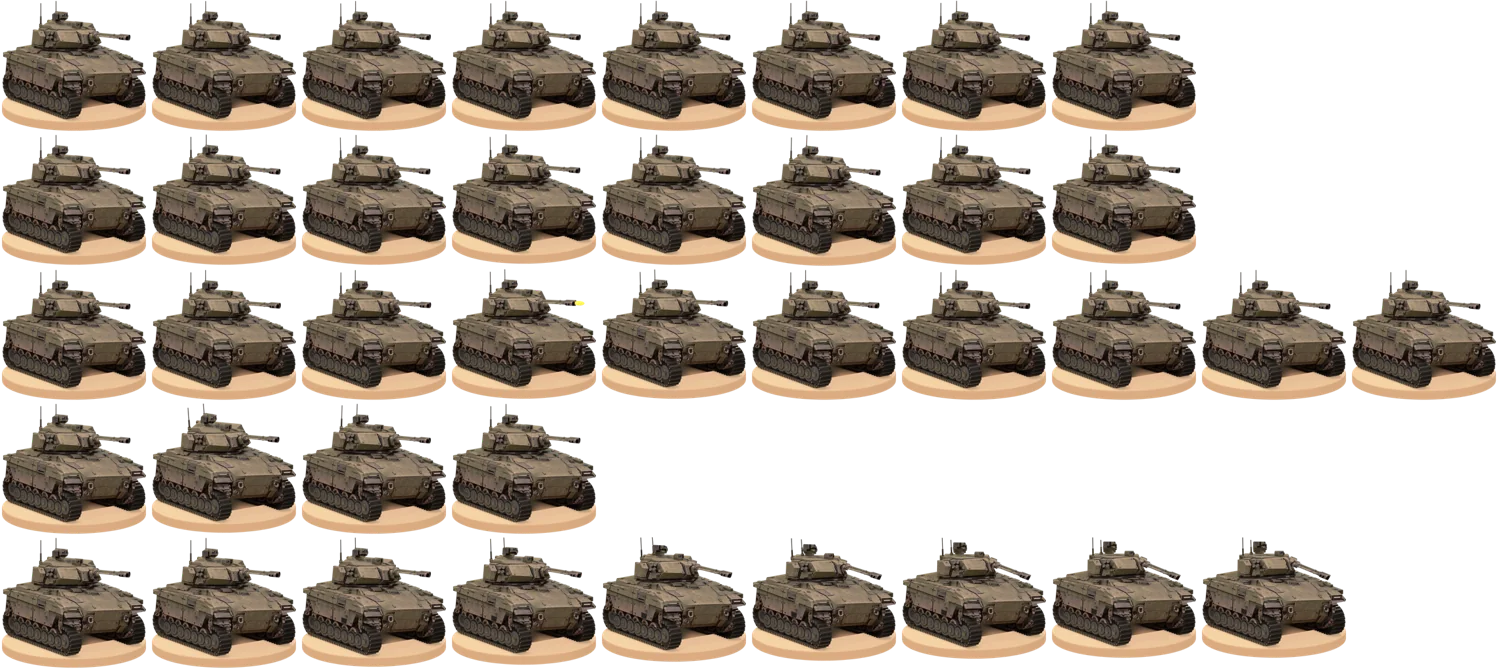
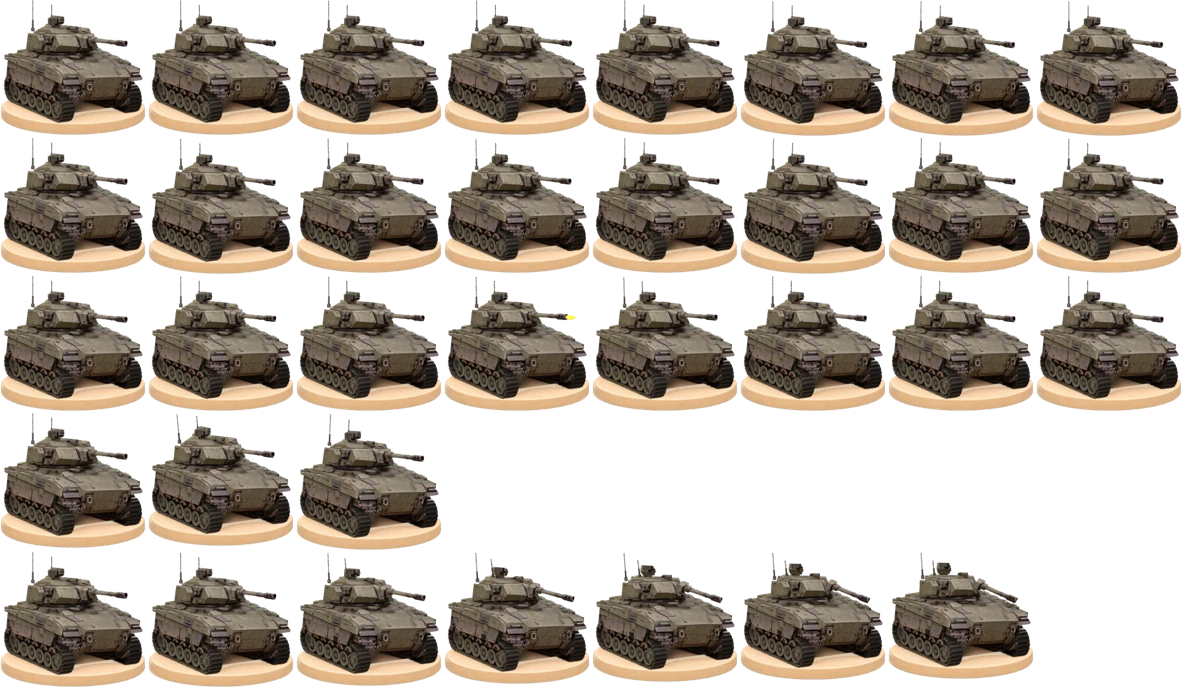
Codex task unit-anim-3d-autonomous-armour: work left uncommitted in the sandbox

diff --git a/tools/art/anim3d/units/autonomous-armour/scene.py b/tools/art/anim3d/units/autonomous-armour/scene.py
@@ -35,11 +35,11 @@ s=stone.node_tree.nodes.get('Principled BSDF');s.inputs['Emission Color'].defaul
 def empty(name, parent=None, loc=(0,0,0)):
     o=bpy.data.objects.new(name,None);bpy.context.collection.objects.link(o);o.parent=parent;o.location=loc;return o
 root=empty('RIG-chassis')
-turret=empty('RIG-turret',root,(-.25,0,1.94))
+turret=empty('RIG-turret',root,(-.25,-.15,1.94))
 turret.rotation_euler.z=.60
 turret.location.z+=.15
 turret.scale.z=.85
-gun=empty('RIG-gun',turret,(.72,0,.60))
+gun=empty('RIG-gun',turret,(.85,0,.60))
 sensor=empty('RIG-sensor',turret,(-.34,0,1.18))
 
 def finish(o,name,mat,parent,bevel=.012,smooth=False):
@@ -146,7 +146,7 @@ for y,r in [(-.10,.072),(.10,.052)]:
 cube('GEO-forward sensor',(.31,-.10,.93),(.29,.31,.21),paint,turret)
 cyl('GEO-forward optic',(.465,-.10,.93),.074,.018,black,turret,'X')
 cyl('GEO-forward lens',(.48,-.10,.93),.052,.016,glass,turret,'X')
-for i,(x,y,h) in enumerate([(-.86,-.40,.95),(-.62,.38,.84)]):
+for i,(x,y,h) in enumerate([(-.96,-.46,1.22),(-.68,.38,.85)]):
     a=empty('RIG-antenna-'+str(i),turret,(x,y,.82))
     cyl('GEO-antenna mount',(0,0,.06),.055,.12,paint,a)
     rod('GEO-antenna lower',(0,0,.10),(0,0,.43),.024,steel,a)
@@ -159,17 +159,31 @@ for y in [-.48,.48]:
     cube('GEO-periscope glass',(.79,y,1.915),(.015,.21,.042),black)
 for x in [-1.40,-1.05,-.65,-.25,.15,.55,1.10]:
     for side in [-1,1]:cube('GEO-deck fastener',(x,side*.87,1.895),(.07,.09,.035),edge,bevel=.009)
-# Seven road wheels each side; asymmetric small hub bolts make rotation visible.
+# Six separated road wheels each side; twelve repeated studs close the roll loop.
 for side in [-1,1]:
-    for i,x in enumerate([-1.22,-.83,-.44,-.05,.34,.73,1.12]):
+    for i,x in enumerate([-1.30,-.78,-.26,.26,.78,1.30]):
         w=empty(f'RIG-wheel-{side}-{i}',root,(x,side*1.03,.24+.041+.025/2+.065/2+ROAD_RADIUS));w['wheel']=True
         cyl('GEO-rubber wheel',(0,0,0),ROAD_RADIUS,.27,rubber,w,'Y')
-        cyl('GEO-wheel face',(0,side*.145,0),.265,.025,paint,w,'Y')
-        cyl('GEO-wheel inset',(0,side*.16,0),.205,.010,steel,w,'Y')
-        cyl('GEO-wheel dish',(0,side*.17,0),.175,.015,paint,w,'Y')
-        cyl('GEO-wheel hub',(0,side*.192,0),.065,.055,edge,w,'Y')
-        for j in range(6):
-            a=j*2*pi/6;cyl('GEO-hub stud',(.10*cos(a),side*.19,.10*sin(a)),.013,.014,edge,w,'Y',8)
+        # A rolled rim and deep curved dish replace the stack of flat washers.
+        # The closed profile has a real recessed well and a small central cap.
+        profile=[(.249,.140),(.249,.158),(.238,.174),(.222,.176),
+                 (.209,.160),(.191,.128),(.160,.112),(.096,.116),
+                 (.065,.145),(.045,.164),(0,.164),(0,.128)]
+        vs=[(r*cos(j*2*pi/48),side*d,r*sin(j*2*pi/48)) for r,d in profile for j in range(48)]
+        fs=[]
+        for k in range(len(profile)):
+            for j in range(48):
+                face=(k*48+j,k*48+(j+1)%48,((k+1)%len(profile))*48+(j+1)%48,((k+1)%len(profile))*48+j)
+                fs.append(face if side==1 else tuple(reversed(face)))
+        me=bpy.data.meshes.new('Closed wheel dish');me.from_pydata(vs,[],fs);me.update()
+        o=bpy.data.objects.new('GEO-wheel dish',me);bpy.context.collection.objects.link(o)
+        finish(o,o.name,paint,w,0,True)
+        bpy.context.view_layer.objects.active=o
+        bpy.ops.object.select_all(action='DESELECT');o.select_set(True)
+        bpy.ops.object.mode_set(mode='EDIT');bpy.ops.mesh.select_all(action='SELECT')
+        bpy.ops.mesh.remove_doubles(threshold=.0001);bpy.ops.mesh.normals_make_consistent(inside=False);bpy.ops.object.mode_set(mode='OBJECT')
+        for j in range(12):
+            a=j*2*pi/12;cyl('GEO-hub stud',(.09*cos(a),side*.128,.09*sin(a)),.010,.012,paint,w,'Y',8)
     for x in [-1.49,1.49]:
         w=empty(f'RIG-sprocket-{side}-{x}',root,(x,side*1.03,TRACK_Z));w['wheel']=True
         cyl('GEO-sprocket',(0,0,0),TRACK_R-.04,.28,steel,w,'Y')
@@ -212,7 +226,7 @@ sc.cycles.max_bounces=5;sc.render.threads_mode='FIXED';sc.render.threads=3
 sc.render.film_transparent=True;sc.render.resolution_x=sc.render.resolution_y=256;sc.render.resolution_percentage=100
 sc.render.image_settings.file_format='PNG';sc.render.image_settings.color_mode='RGBA'
 sc.world.color=(.15,.15,.15);sc.view_settings.view_transform='Standard';sc.view_settings.look='None';sc.view_settings.exposure=0
-bpy.ops.object.camera_add(location=(10,-7,4.8));cam=bpy.context.object;cam.name='CAM-painting';cam.rotation_euler=(Vector((0,0,1.60))-cam.location).to_track_quat('-Z','Y').to_euler();cam.data.type='ORTHO';cam.data.ortho_scale=5.25;sc.camera=cam
+bpy.ops.object.camera_add(location=(10,-5.7,4.60));cam=bpy.context.object;cam.name='CAM-painting';cam.rotation_euler=(Vector((0,0,1.60))-cam.location).to_track_quat('-Z','Y').to_euler();cam.data.type='ORTHO';cam.data.ortho_scale=5.25;sc.camera=cam
 for name,loc,power,size,col in [('LGT-warm key',(-3,-4,9),620,5,(1,.96,.88)),('LGT-soft fill',(5,-3,4),110,5,(.92,.96,1)),('LGT-cool rim',(-2,4,6),230,3,(.82,.90,1))]:
     bpy.ops.object.light_add(type='AREA',location=loc);o=bpy.context.object;o.name=name;o.data.energy=power;o.data.size=size;o.data.color=col;o.rotation_euler=(Vector((0,0,1))-o.location).to_track_quat('-Z','Y').to_euler()
 # Broader track gauge and hull, with circular road wheels retained.
@@ -237,4 +251,4 @@ clay=material('MAT-plain clay',(.25,.23,.20),(.46,.43,.37))
 for o in bpy.data.objects:
     if o.type=='MESH' and o.name.startswith('GEO-'):o.data.materials.clear();o.data.materials.append(clay)
 bpy.ops.wm.save_as_mainfile(filepath=str(MASTER/'plain.blend'))
-log(f'Built true 3D hard-surface geometry and rigid rig: {len(bpy.data.objects)} objects; bevels, open muzzle, sensors, seven wheels per side, 128 articulated tracks.')
+log(f'Built true 3D hard-surface geometry and rigid rig: {len(bpy.data.objects)} objects; bevels, open muzzle, sensors, six wheels per side, 128 articulated tracks.')

diff --git a/tools/art/anim3d/units/autonomous-armour/finish.py b/tools/art/anim3d/units/autonomous-armour/finish.py
@@ -107,12 +107,25 @@ for o in objects:
     if moving_gear and o.name.startswith(('GEO-wheel face','GEO-wheel dish','GEO-sprocket face')):
         ao=n.new('ShaderNodeAmbientOcclusion');ao.inputs['Distance'].default_value=.18
         shade=n.new('ShaderNodeMixRGB');shade.blend_type='MULTIPLY';shade.inputs[0].default_value=.65
-        neutral=n.new('ShaderNodeHueSaturation');neutral.inputs['Saturation'].default_value=.30
+        neutral=n.new('ShaderNodeHueSaturation');neutral.inputs['Saturation'].default_value=.65
         l.new(original,neutral.inputs['Color']);l.new(neutral.outputs['Color'],s.inputs['Base Color'])
         l.new(neutral.outputs['Color'],shade.inputs[1]);l.new(ao.outputs['Color'],shade.inputs[2])
         l.new(shade.outputs[0],pigment.inputs['Color'])
         l.new(lightpath.outputs['Is Camera Ray'],camera_weight.inputs[0])
         l.remove(camera_weight.inputs[1].links[0]);camera_weight.inputs[1].default_value=.25
+        if o.name.startswith('GEO-wheel dish'):
+            # Curved rolled edges catch a warm painted highlight; cavities keep
+            # the generated olive pigment. Radius is local, so the 12-fold
+            # geometry and pigment close at the same 150-degree loop sample.
+            tc=n.new('ShaderNodeTexCoord');sep=n.new('ShaderNodeSeparateXYZ');l.new(tc.outputs['Generated'],sep.inputs[0])
+            radial=[]
+            for axis in ('X','Z'):
+                sub=n.new('ShaderNodeMath');sub.operation='SUBTRACT';sub.inputs[1].default_value=.5;l.new(sep.outputs[axis],sub.inputs[0])
+                sq=n.new('ShaderNodeMath');sq.operation='MULTIPLY';l.new(sub.outputs[0],sq.inputs[0]);l.new(sub.outputs[0],sq.inputs[1]);radial.append(sq.outputs[0])
+            add=n.new('ShaderNodeMath');add.operation='ADD';l.new(radial[0],add.inputs[0]);l.new(radial[1],add.inputs[1])
+            rim=n.new('ShaderNodeMapRange');rim.inputs['From Min'].default_value=.18;rim.inputs['From Max'].default_value=.23;l.new(add.outputs[0],rim.inputs['Value'])
+            wear=n.new('ShaderNodeMixRGB');wear.inputs[2].default_value=(.34,.28,.19,1);l.new(rim.outputs[0],wear.inputs[0]);l.new(neutral.outputs[0],wear.inputs[1])
+            l.new(wear.outputs[0],s.inputs['Base Color']);l.new(wear.outputs[0],shade.inputs[1])
     projection.append(o.name)
 # Warm physical stone, with camera-only pigment to open the deep rim. The
 # pigment uses live AO; it contains neither a projected tank nor painted shadow.
@@ -129,6 +142,32 @@ pigment=n.new('ShaderNodeEmission');l.new(shade.outputs[0],pigment.inputs['Color
 path=n.new('ShaderNodeLightPath');path.name='Camera-only stone pigment'
 weight=n.new('ShaderNodeMath');weight.operation='MULTIPLY';weight.inputs[1].default_value=.72;l.new(path.outputs['Is Camera Ray'],weight.inputs[0])
 blend=n.new('ShaderNodeMixShader');l.new(weight.outputs[0],blend.inputs[0]);l.new(s.outputs[0],blend.inputs[1]);l.new(pigment.outputs[0],blend.inputs[2]);l.new(blend.outputs[0],n.get('Material Output').inputs['Surface'])
+# Preserve the painting's fine stone grain on the real beveled disc. Restrict
+# projection to bright cream pixels below the vehicle; olive armour, tread and
+# baked dark contact shadows cannot be copied onto revealed stone during motion.
+base=bpy.data.objects['BASE-stationary cream stone']
+uv=base.data.uv_layers.new(name='StonePainting')
+for index,loop in enumerate(base.data.loops):
+    p=world_to_camera_view(sc,sc.camera,base.matrix_world @ base.data.vertices[loop.vertex_index].co)
+    uv.data[index].uv=(p.x,p.y)
+coord=n.new('ShaderNodeUVMap');coord.uv_map='StonePainting'
+im=n.new('ShaderNodeTexImage');im.image=tex;im.extension='CLIP';l.new(coord.outputs[0],im.inputs['Vector'])
+rgb=n.new('ShaderNodeSeparateColor');rgb.mode='RGB';l.new(im.outputs['Color'],rgb.inputs[0])
+xy=n.new('ShaderNodeSeparateXYZ');l.new(coord.outputs[0],xy.inputs[0])
+def stone_math(operation,a,b):
+    node=n.new('ShaderNodeMath');node.operation=operation
+    for i,value in enumerate((a,b)):
+        if isinstance(value,(int,float)):node.inputs[i].default_value=value
+        else:l.new(value,node.inputs[i])
+    return node.outputs[0]
+cream=stone_math('GREATER_THAN',stone_math('SUBTRACT',rgb.outputs['Red'],rgb.outputs['Green']),.08)
+bright=stone_math('GREATER_THAN',rgb.outputs['Green'],.38)
+lower=stone_math('LESS_THAN',xy.outputs['Y'],.30)
+mask=stone_math('MULTIPLY',stone_math('MULTIPLY',cream,bright),lower)
+mask=stone_math('MULTIPLY',mask,im.outputs['Alpha'])
+mask=stone_math('MULTIPLY',mask,path.outputs['Is Camera Ray'])
+source=n.new('ShaderNodeEmission');l.new(im.outputs['Color'],source.inputs['Color'])
+stoneblend=n.new('ShaderNodeMixShader');l.new(mask,stoneblend.inputs[0]);l.new(blend.outputs[0],stoneblend.inputs[1]);l.new(source.outputs[0],stoneblend.inputs[2]);l.new(stoneblend.outputs[0],n.get('Material Output').inputs['Surface'])
 bpy.ops.file.pack_all();bpy.ops.wm.save_as_mainfile(filepath=str(M/'finished.blend'))
 (M/'projection.json').write_text(json.dumps({'meshes':projection,'strength':{'static':.97,'rotating_gear':0},'camera_only':True,'hidden_fill':'generated painted-fill.png, frozen-camera visibility and facing fade','source':'projection.png'},indent=2))
 log(f'Finished materials: three actual AO/curvature bake pairs, generated unseen paint, {len(projection)} genuine projected meshes; all textures packed.')

diff --git a/tools/art/anim3d/units/autonomous-armour/deliver.py b/tools/art/anim3d/units/autonomous-armour/deliver.py
@@ -1,8 +1,8 @@
 """Review, frozen histogram grade, trimmed atlas, validation and decoded-atlas MP4."""
 import sys, os, json, hashlib, io, subprocess
 from pathlib import Path
-from PIL import Image, ImageDraw, ImageChops, ImageStat
-from common import MASTER, REVIEW, ASSETS, SLUG, CLIPS, log
+from PIL import Image, ImageDraw, ImageChops, ImageStat, ImageOps
+from common import MASTER, REVIEW, ASSETS, HERE, SLUG, CLIPS, log
 OUT=Path('app/src/assets/units/anim');OUT.mkdir(parents=True,exist_ok=True)
 CREAM=(240,232,214,255)
 def read(p):return Image.open(p).convert('RGBA')
@@ -62,7 +62,19 @@ def review(stage):
             canvas.alpha_composite(im,(256*i,28));token=read(Path(f'app/src/assets/units/{SLUG}-64.png')) if i==0 else small(im,64);canvas.alpha_composite(token,(256*i+96,302));d.text((256*i+8,8),label,fill='#423a30')
         canvas.convert('RGB').save(REVIEW/f'{SLUG}-f-restpose-compare.png')
     elif stage=='details':
-        sheet([read(ASSETS/'projection.png').crop((144,152,888,580)).resize((256,256),Image.Resampling.LANCZOS),images[-1]],['Painting turret crop','3D detail'],REVIEW/f'{SLUG}-c-details.png')
+        # Compare identical camera-space regions without changing aspect ratio.
+        # The separately rendered close view remains a master, but its camera
+        # cannot be used as a registration comparison against the painting.
+        canvas=Image.new('RGBA',(512,3*284),CREAM);draw=ImageDraw.Draw(canvas)
+        regions=[('Turret',(48,18,220,126)),('Running gear',(12,124,142,218)),('Stone',(10,180,246,239))]
+        reference=read(ASSETS/'projection.png')
+        for row,(label,box) in enumerate(regions):
+            for col,im in enumerate((reference,read(MASTER/'256'/'details'/'rest.png'))):
+                scale=im.width/256;crop=im.crop(tuple(round(v*scale) for v in box))
+                crop=ImageOps.contain(crop,(256,256),Image.Resampling.LANCZOS)
+                canvas.alpha_composite(crop,(col*256+(256-crop.width)//2,row*284+28+(256-crop.height)//2))
+                draw.text((col*256+8,row*284+8),f'{label}: {"Painting" if col==0 else "3D"}',fill='#423a30')
+        canvas.convert('RGB').save(REVIEW/f'{SLUG}-c-details.png')
     elif stage=='d':sheet(images,['Ready','Aim','Recoil','Recovery'],REVIEW/f'{SLUG}-d-rig-poses.png')
     elif stage=='g':
         canvas=Image.new('RGBA',(128*8,156*2),CREAM);draw=ImageDraw.Draw(canvas)
@@ -173,8 +185,17 @@ def movie():
     assert s['codec_name']=='h264' and s['pix_fmt']=='yuv420p' and s['nb_frames']=='240';assert float(s['duration'])==8
     (REVIEW/f'{SLUG}-video-validation.json').write_text(json.dumps({'path':str(dest),'width':s['width'],'height':s['height'],'frames':240,'duration':8,'codec':s['codec_name'],'pixel_format':s['pix_fmt']},indent=2));log(f'Encoded and ffprobe-verified {dest.name}: 8 s, 240 frames, 1600x348 H.264 yuv420p; decoded trimmed atlas.')
 
+def verify_build():
+    assert not (MASTER/'build-pending').exists(),'Interrupted build'
+    inputs=json.loads((MASTER/'build-inputs.json').read_text())
+    for section,root in [('scripts',HERE),('assets',ASSETS),('scenes',MASTER)]:
+        for name,expected in inputs[section].items():
+            assert sha(root/name)==expected,f'Rebuild required: {section}/{name} changed'
+    print('Current generator, asset and saved-scene hashes verified.')
+
 def verify_gpu():
     """Independently reject CPU, stale, incomplete or mismatched final evidence."""
+    verify_build()
     masterhash=sha(MASTER/'finished.blend');stages={'b':3,'c':1,'details':2,'d':4,'g':16}
     stages.update({f'e-{name}':count for name,(count,_,_) in CLIPS.items()})
     for stage,count in stages.items():
@@ -211,4 +232,4 @@ def verify_gpu():
 if __name__=='__main__':
     task=sys.argv[1]
     if task=='review':review(sys.argv[2])
-    else:{'pack':pack,'validate':validate,'movie':movie,'verify-gpu':verify_gpu}[task]()
+    else:{'pack':pack,'validate':validate,'movie':movie,'verify-build':verify_build,'verify-gpu':verify_gpu}[task]()

diff --git a/tools/art/anim3d/units/autonomous-armour/audit.py b/tools/art/anim3d/units/autonomous-armour/audit.py
@@ -13,7 +13,12 @@ for name,(count,fps,loop) in CLIPS.items():
     base=bpy.data.objects['BASE-stationary cream stone'];assert base.parent is None
     assert not base.animation_data,'Base must not animate'
     meshes=[o for o in bpy.data.objects if o.type=='MESH'];tracks=[o for o in bpy.data.objects if 'phase' in o]
-    assert len(tracks)==128 and len([o for o in bpy.data.objects if 'wheel' in o])==18
+    assert len(tracks)==128 and len([o for o in bpy.data.objects if 'wheel' in o])==16
+    for side in (-1,1):
+        road=sorted([o for o in bpy.data.objects if o.name.startswith(f'RIG-wheel-{side}-')],key=lambda o:o.location.x)
+        assert len(road)==6
+        for a,b in zip(road,road[1:]):
+            assert b.location.x-a.location.x>=2*ROAD_RADIUS,'Road tyres intersect'
     assert len(meshes)>300 and 'GEO-open muzzle brake' in bpy.data.objects
     poses=[];contact=[]
     shoes=[child for track in tracks for child in track.children if child.type=='MESH']
@@ -67,5 +72,5 @@ for i in range(3):
     for mode in ['AO','curvature']:assert (MASTER/'textures/baked'/f'{i}-{mode}.png').exists()
 assert len(json.loads((MASTER/'projection.json').read_text())['meshes'])>300
 report={'contract':'PASS','master_sha256':masterhash,'clips':reports,'limits':'Geometry/keys audit, not a complete collision solver or visual art approval.'}
-(REVIEW/f'{SLUG}-audit.json').write_text(json.dumps(report,indent=2));log('Saved-scene audit PASS: current source hashes, 128 track links, 18 wheels, stationary base, nonzero scales, loop closure keys and held death.')
+(REVIEW/f'{SLUG}-audit.json').write_text(json.dumps(report,indent=2));log('Saved-scene audit PASS: current source hashes, 128 track links, 16 wheels, stationary base, nonzero scales, loop closure keys and held death.')
 print('AUDIT PASS')

diff --git a/tools/art/anim3d/units/autonomous-armour/animate.py b/tools/art/anim3d/units/autonomous-armour/animate.py
@@ -2,7 +2,7 @@
 import bpy, sys, math, json, hashlib
 from pathlib import Path
 sys.path.insert(0,str(Path(__file__).resolve().parent))
-from common import MASTER, CLIPS, log, TRACK_H, TRACK_R, TRACK_Z, TRACK_LENGTH, MOVE_TRAVEL, ROAD_RADIUS
+from common import MASTER, HERE, ASSETS, CLIPS, log, TRACK_H, TRACK_R, TRACK_Z, TRACK_LENGTH, MOVE_TRAVEL, ROAD_RADIUS
 from math import pi,sin,cos
 R=TRACK_R;H=TRACK_H;Z=TRACK_Z;LENGTH=TRACK_LENGTH
 
@@ -78,4 +78,10 @@ for clip,(count,fps,loop) in CLIPS.items():
     bpy.ops.wm.save_as_mainfile(filepath=str(MASTER/'clips'/f'{clip}.blend'))
     log(f'Authored {clip}: {count} output samples at {fps} fps; {len(controls)} mechanical controls; loop={loop}.')
 
+def digest(path):return hashlib.sha256(path.read_bytes()).hexdigest()
+(MASTER/'build-inputs.json').write_text(json.dumps({
+    'scripts':{name:digest(HERE/name) for name in ('scene.py','finish.py','animate.py','common.py','prepare.py')},
+    'assets':{name:digest(ASSETS/name) for name in ('painting-source.png','projection.png','painted-fill.png')},
+    'scenes':{name:digest(MASTER/name) for name in ['model.blend','plain.blend','finished.blend']+[f'clips/{clip}.blend' for clip in CLIPS]},
+},indent=2))
 (MASTER/'build-pending').unlink(missing_ok=True)

diff --git a/tools/art/anim3d/units/autonomous-armour/common.py b/tools/art/anim3d/units/autonomous-armour/common.py
@@ -4,14 +4,14 @@ import math
 from pathlib import Path
 
 SLUG = 'autonomous-armour'
-# Five shoe pitches = three 12-tooth sprocket periods = two 6-stud
+# Five shoe pitches = three 12-tooth sprocket periods = five 12-stud
 # wheel periods. All gear rolls in the same direction without a loop jump.
 TRACK_H = 1.49
 TRACK_R = 10 * TRACK_H / (11 * math.pi)
 TRACK_Z = .24 + .041 + .025 / 2 + TRACK_R
 TRACK_LENGTH = 4 * TRACK_H + 2 * math.pi * TRACK_R
 MOVE_TRAVEL = 5 * TRACK_LENGTH / 64
-ROAD_RADIUS = MOVE_TRAVEL / (2 * math.pi / 3)
+ROAD_RADIUS = MOVE_TRAVEL / (5 * math.pi / 6)
 ROOT = Path(os.environ.get('ANIM_ROOT', str(Path.home() / 'LegatumRuns/anim-pilot')))
 MASTER = ROOT / 'masters' / SLUG
 ASSETS = ROOT / 'assets' / SLUG

diff --git a/tools/art/anim3d/PLAYBOOK.md b/tools/art/anim3d/PLAYBOOK.md
@@ -112,7 +112,7 @@ Run each heavy stage sequentially. Other unit lanes share the same lock; if one 
 This unit's scripts live in `tools/art/anim3d/units/autonomous-armour/`; they do not
 replace the tank lane's family scripts. The unmanned vehicle uses original closed
 hull and turret meshes, a genuinely open muzzle, separate optical housings, twin
-antennas, thick segmented skirts, seven road wheels per side, two sprockets per
+antennas, thick segmented skirts, six road wheels per side, two sprockets per
 side and 128 individually articulated track links. A rigid parent hierarchy owns
 chassis, turret traverse, gun recoil, sensor yaw, antennas, wheels and links.
 No infantry anatomy or MPFB installation is needed for a machine.
@@ -132,7 +132,7 @@ fill, ambient cavity shading, bevels and physical response finish the wheel dish
 Three real Cycles AO/Pointiness bake pairs remain on the main armour surfaces.
 
 The round-two hull and track gauge are 22% broader, the turret is 15% shorter with
-a raised mounting, and the camera is `(10,-7,4.8)` aimed at `(0,0,1.6)`, scale 5.25.
+a raised mounting, and the camera is `(10,-5.7,4.6)` aimed at `(0,0,1.6)`, scale 5.25.
 These are measured local visual improvements, **not an exact viewpoint claim**.
 The source/render/50-percent-crossfade sheet at 256 and 64 px remains the art gate;
 passing file checks alone is not approval. Remaining running-gear proportions,
@@ -145,12 +145,15 @@ revealed surfaces and source-object contamination in moving poses.
 
 The base retains the shared dielectric **#E9CFA0** albedo, fine grain, a real
 55mm five-segment bevel and .24m contact top. Camera-only top/rim pigment with live
-AO opens its shaded edge; no tank image or painted contact shadow enters the stone.
-The rim remains simpler than the painting. Judge actual lit/graded pixels, not
-material numeric values alone.
+AO opens its shaded edge; no tank image or dark painted contact shadow enters the stone.
+The driver-round-two finish also freezes source UVs on the real disc. Only
+bright cream source pixels below the vehicle may contribute; olive pixels and
+dark painted contact shadows are excluded. Physical/pigment stone remains
+underneath the vehicle and on unseen surfaces. Judge actual lit/graded pixels,
+not material numeric values alone.
 
 Mechanical motion uses shared constants in `common.py`: five track pitches per
-move loop, two six-stud wheel periods and three twelve-tooth sprocket periods.
+move loop, five twelve-stud wheel periods and three twelve-tooth sprocket periods.
 The rolling direction matches the tread, and angular travel times rolling radius
 equals track travel. The saved-scene audit checks those distances and maps closure
 links to their corresponding starting links. `g` renders all eight move samples
@@ -224,3 +227,27 @@ quality >=75; reject delivery over 200,000 bytes. Reduce tokens with premultipli
 RGBA bicubic sampling, preserving the exact resulting 8-bit alpha on decode.
 Raw and graded hashes are rechecked independently during validation. No runtime loader is changed
 by this art candidate, and fixed-grid consumers must not infer new crop positions.
+
+### Driver round 2 after the successful round-1 GPU pass
+
+The driver reused the earlier round-two CPU implementation for its round-one GPU
+pass. Its receipt verifies Cycles GPU96 at 512, a 192,900-byte Q85 atlas and an
+8-second H.264 movie. That exact evidence is preserved externally at
+`masters/autonomous-armour/driver-round1-gpu/`; it is not the current geometry.
+
+A less side-on orthographic camera shortens the excessive projected tread run.
+The turret shifts 0.15m toward the visible side, its gun mount shifts 0.13m forward,
+and the two antenna tips have independently corrected heights. Six separated
+road tyres replace seven overlapping tyres. Their radius is derived from the
+same five track pitches using 150 degrees of travel; twelve repeated studs close
+at five periods. Curved closed wheel dishes and rolled warm worn rims replace
+flat concentric cylinders. The audit now rejects intersecting road tyres as well
+as testing contact, travel, closure and frozen UV registration.
+
+`animate.py` records generator, source/fill and saved-scene SHA256 values in
+`build-inputs.json` once all five scenes exist. GPU preflight and the final receipt
+both verify these inputs, rejecting a script or texture change after the build.
+This extends the existing raw/graded/atlas hashes. Never treat an older 512 folder
+as current evidence after CPU iteration; only fresh GPU manifests establish that.
+The current CPU/GPU difference and remaining silhouette/paint gaps belong in the
+unit log, and only actual visual acceptance can write PASS.

diff --git a/tools/art/anim3d/units/autonomous-armour/SOURCES.md b/tools/art/anim3d/units/autonomous-armour/SOURCES.md
@@ -4,3 +4,5 @@
 - Unseen painted steel: original built-in imagegen output, 2026-11-22, `01a20674-c712-70c3-8be2-9faa56cc6ca7/exec-53462d10-62c0-477b-9c78-6032916d5343`, project CC BY 4.0, no public source URL. External `assets/autonomous-armour/painted-fill.png`; exact prompt in `fill.prompt.txt`.
 - Geometry and mechanical animation: original unit scripts, MIT; rendered artwork CC BY 4.0. No downloaded vehicle, human mocap, commercial motion service, or additional round-two asset. Wheel rotation and track travel derive from a shared physical distance and repeating mechanical geometry.
 - Existing Blender 5.3.0, GPL software: https://www.blender.org/. Pillow 13.0.0, MIT-CMU: https://pypi.org/project/pillow/13.0.0/. External asset inventory is `~/LegatumRuns/anim-pilot/assets/SOURCES.md`.
+
+Driver round 2 reuses these exact assets. Source cream grain is now mapped onto the real beveled disc with a mask excluding the vehicle and dark contact shadows. No new generated or downloaded assets.
